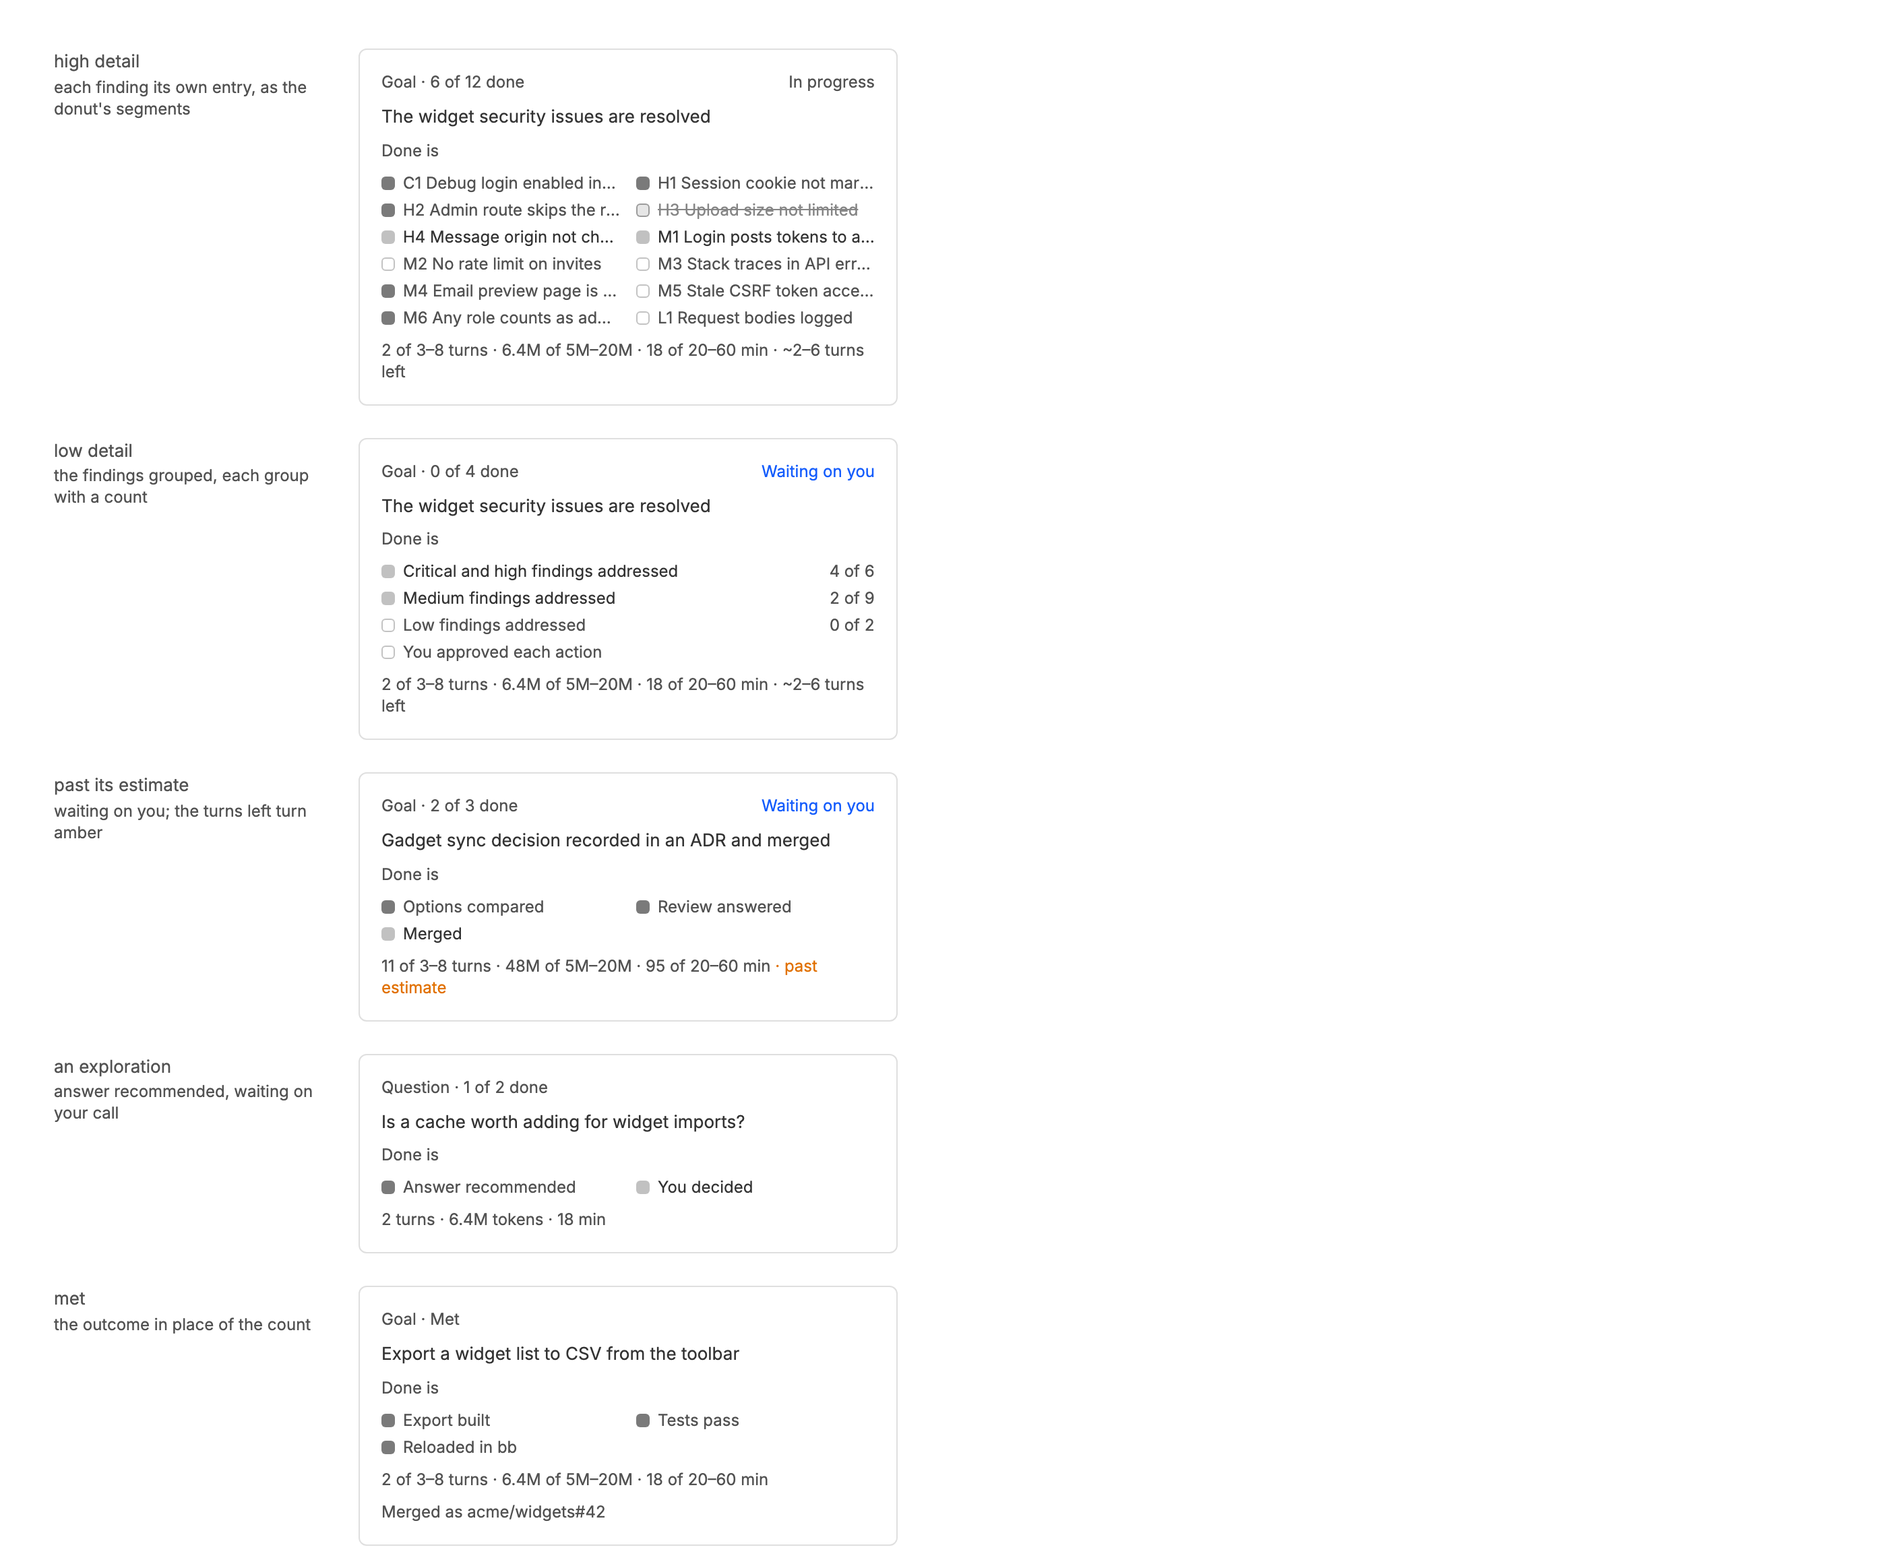
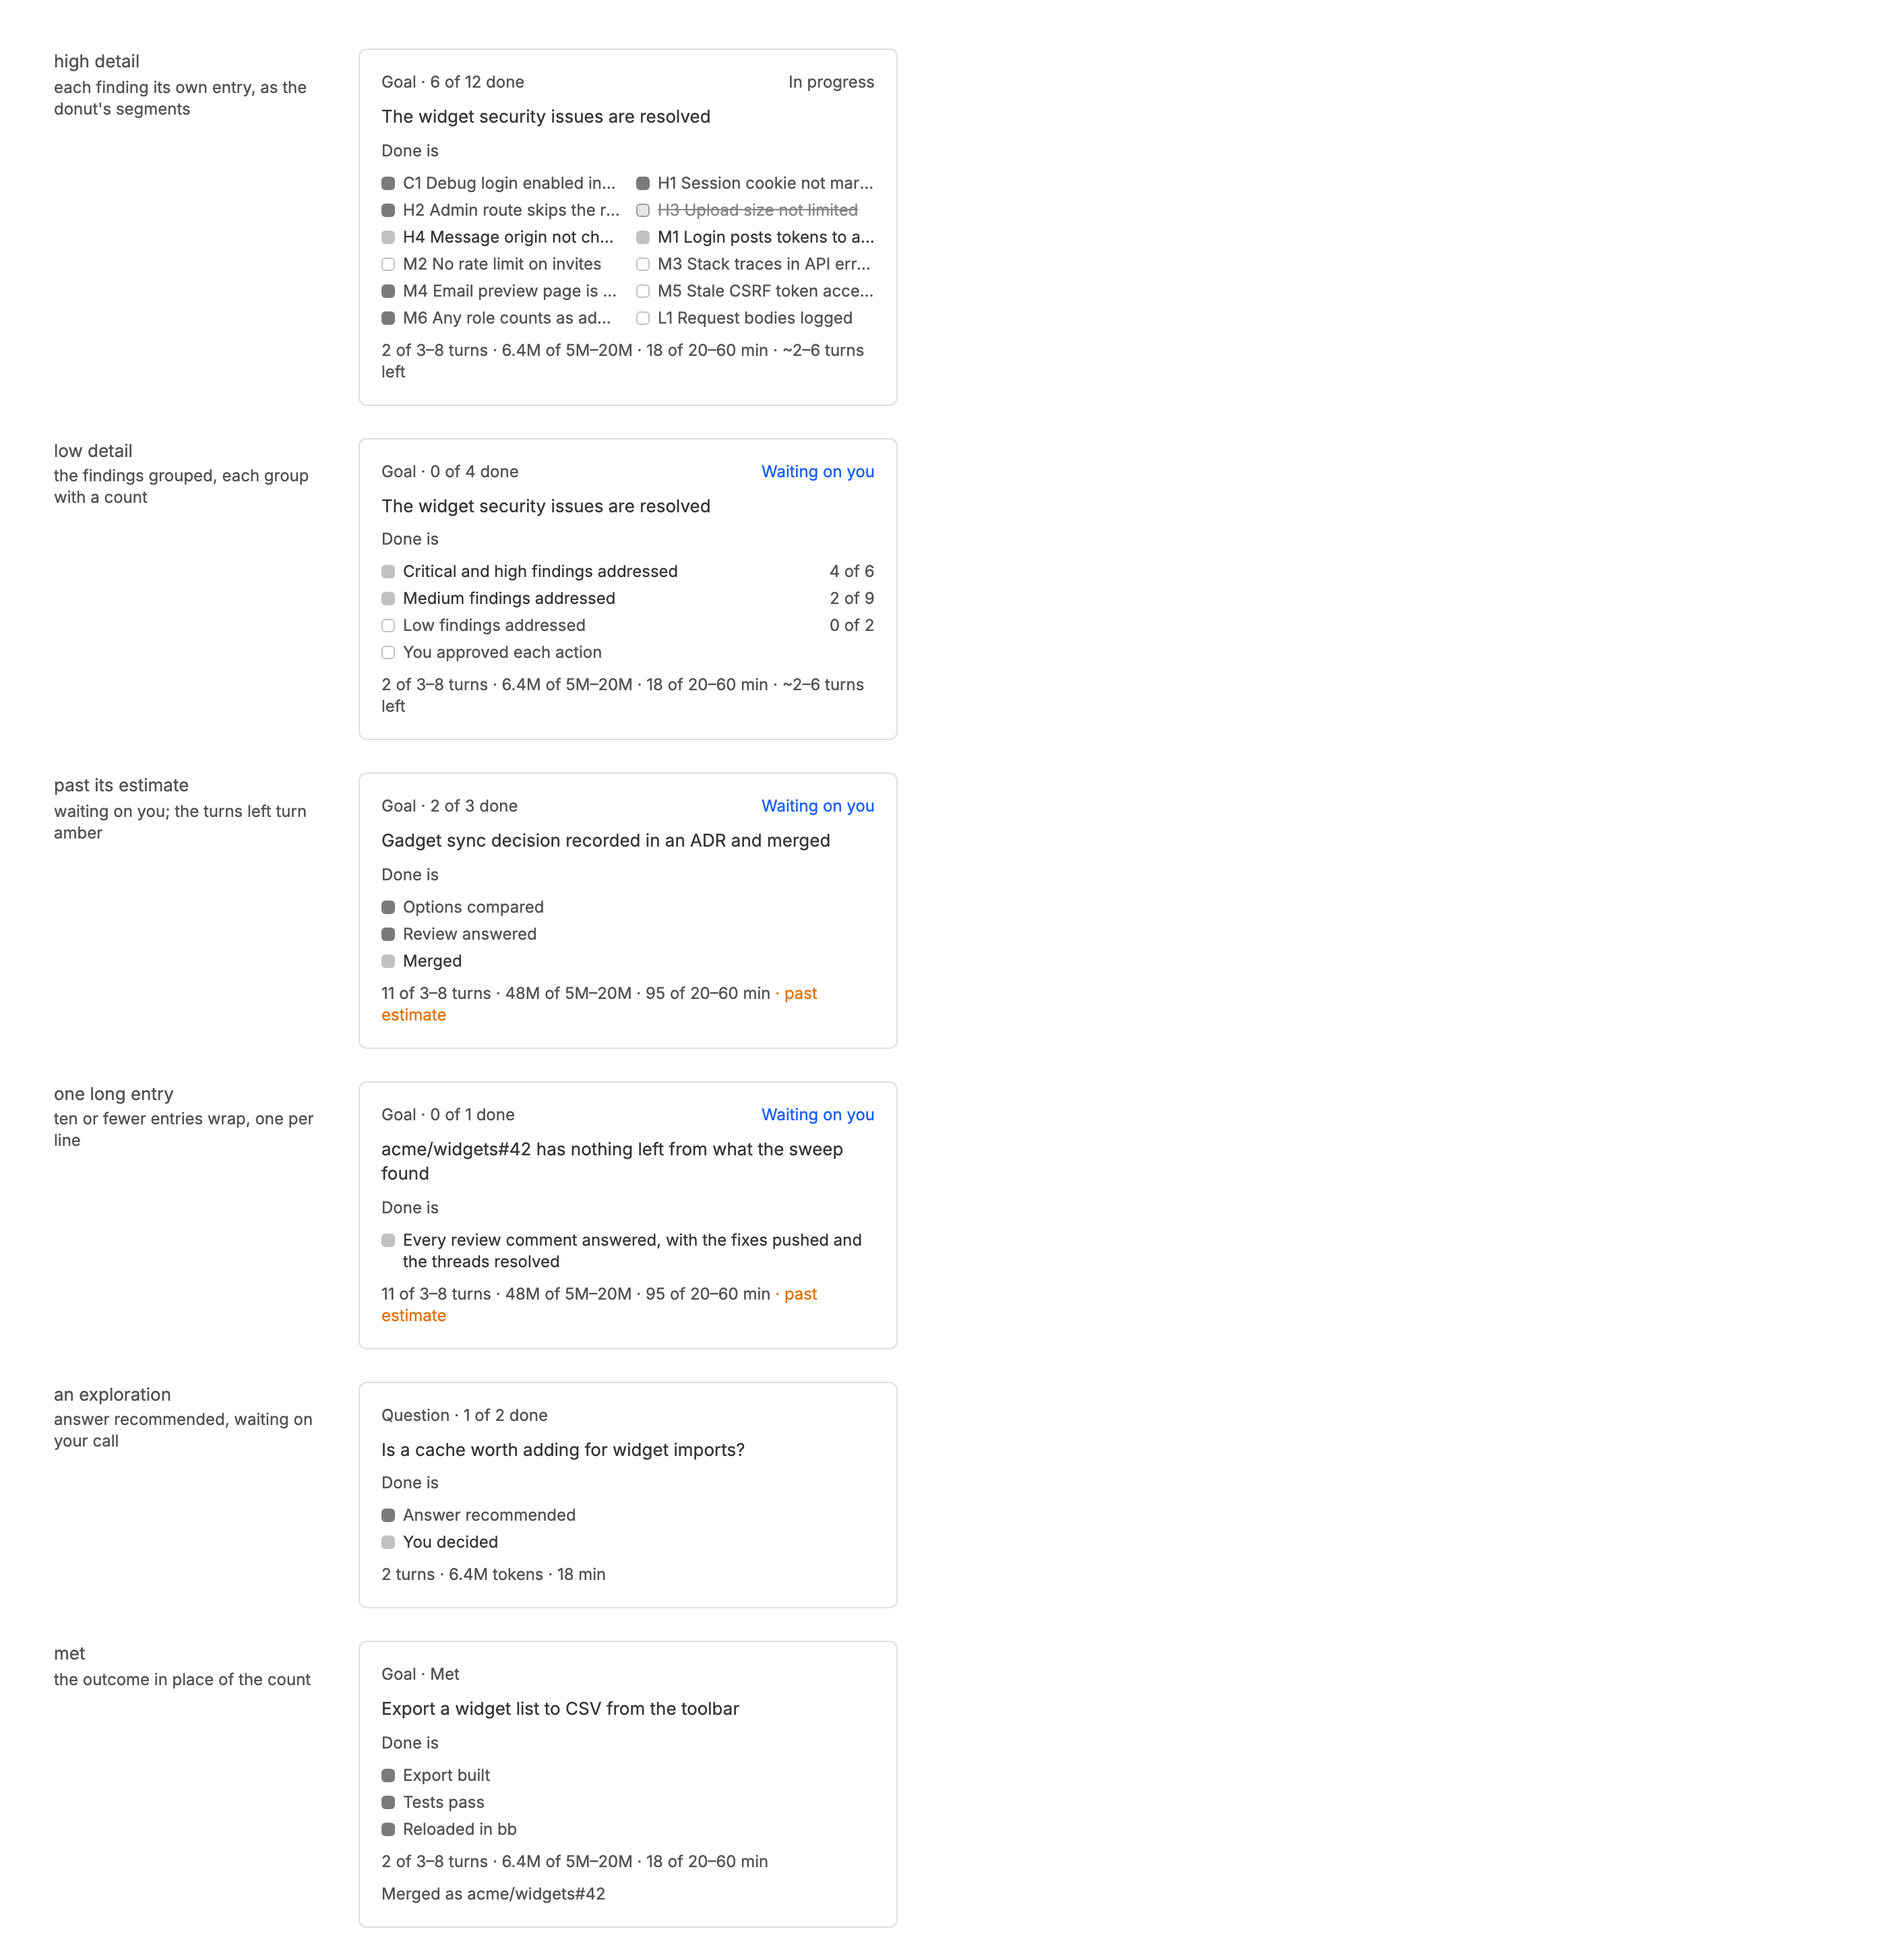
e08af24 Tokenomics: ten or fewer goal entries show one per line, wrapping
danielbachhuber/bb-plugins@e08af24836b92dab5725c4824fdd416380bda609

Captured with uncommitted changes in the bb-plugins checkout.

diff --git a/tokenomics/README.md b/tokenomics/README.md
@@ -16,7 +16,7 @@ The token button in the thread header with the goal's donut before its sparkline
 
 ### Compact goal states
 
-The goal at the top of the summary: a review's twelve findings at high detail, the same review grouped with counts at low detail, waiting on you past its estimate, an exploration, and once met.
+The goal at the top of the summary: a review's twelve findings at high detail, the same review grouped with counts at low detail, waiting on you past its estimate, one long entry wrapping, an exploration, and once met.
 
 ![Compact goal states](goals--compact-goal-states.png)
 
